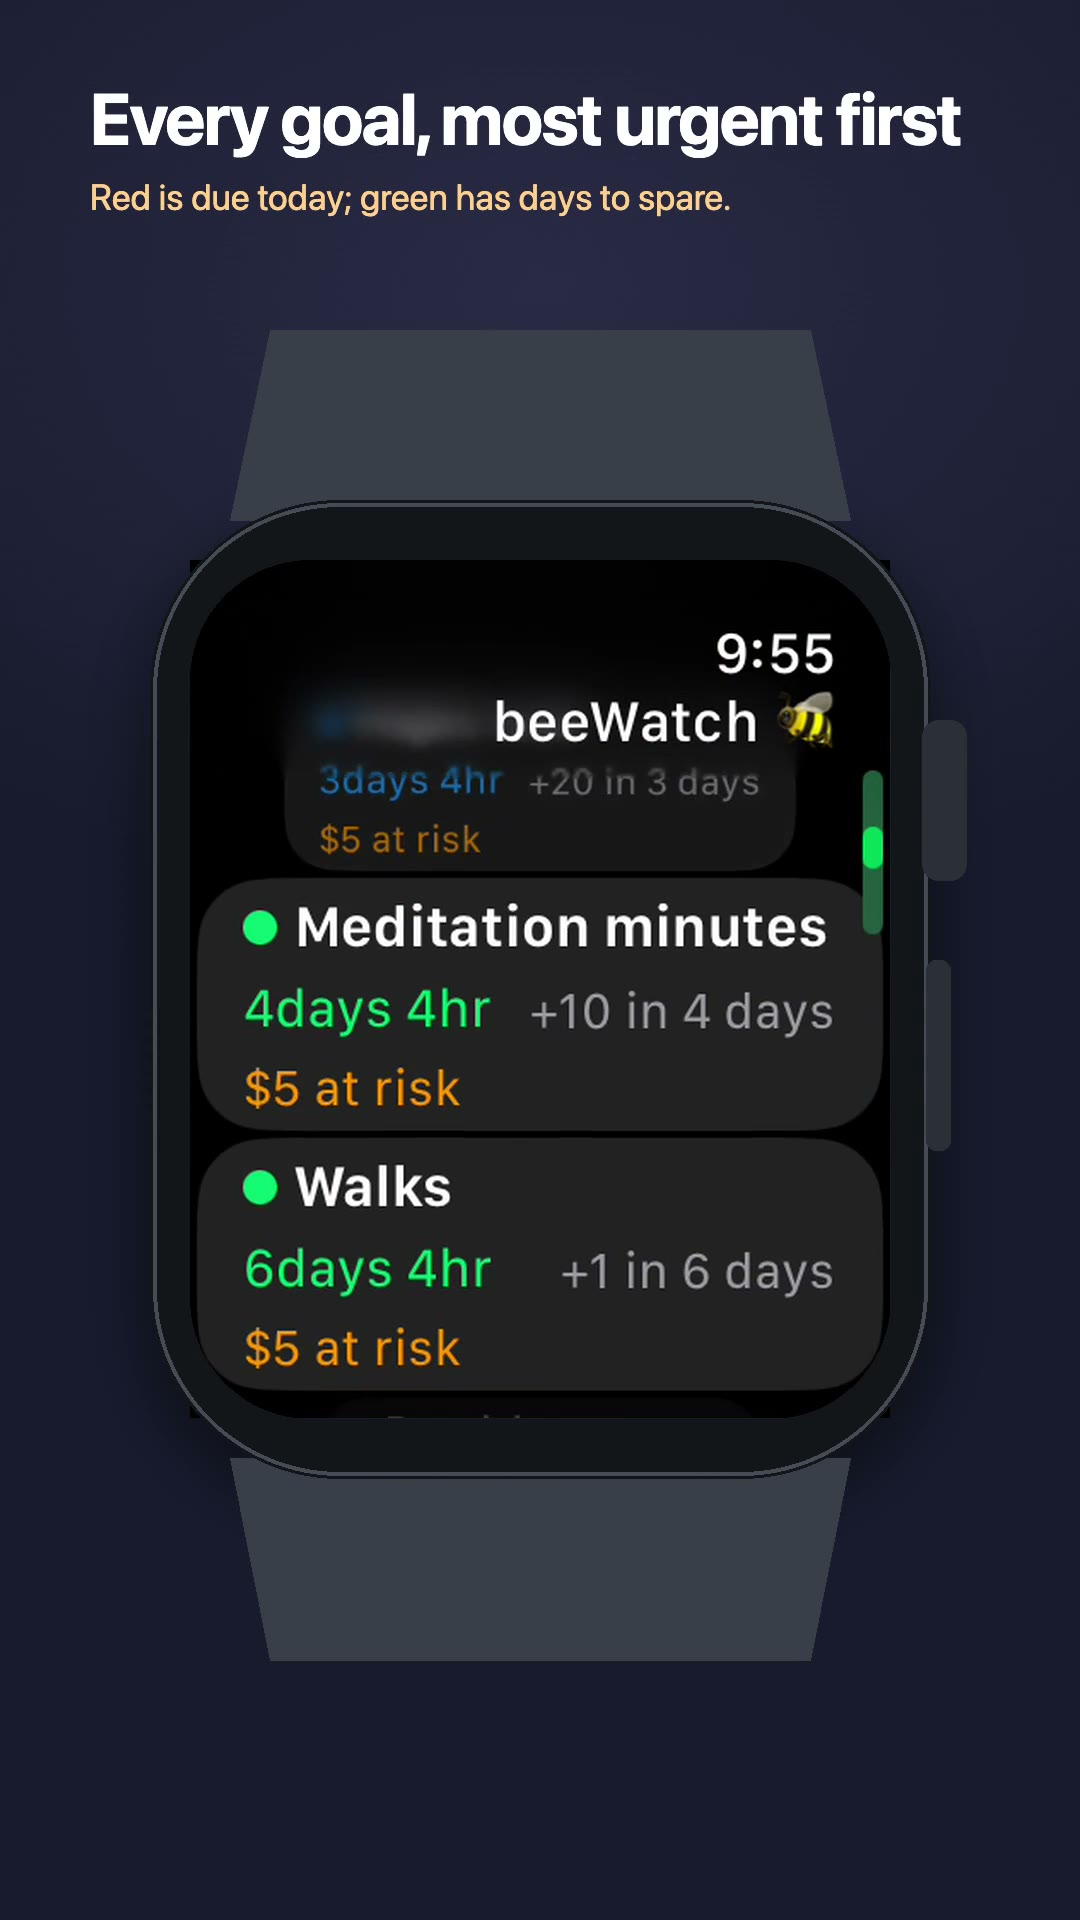
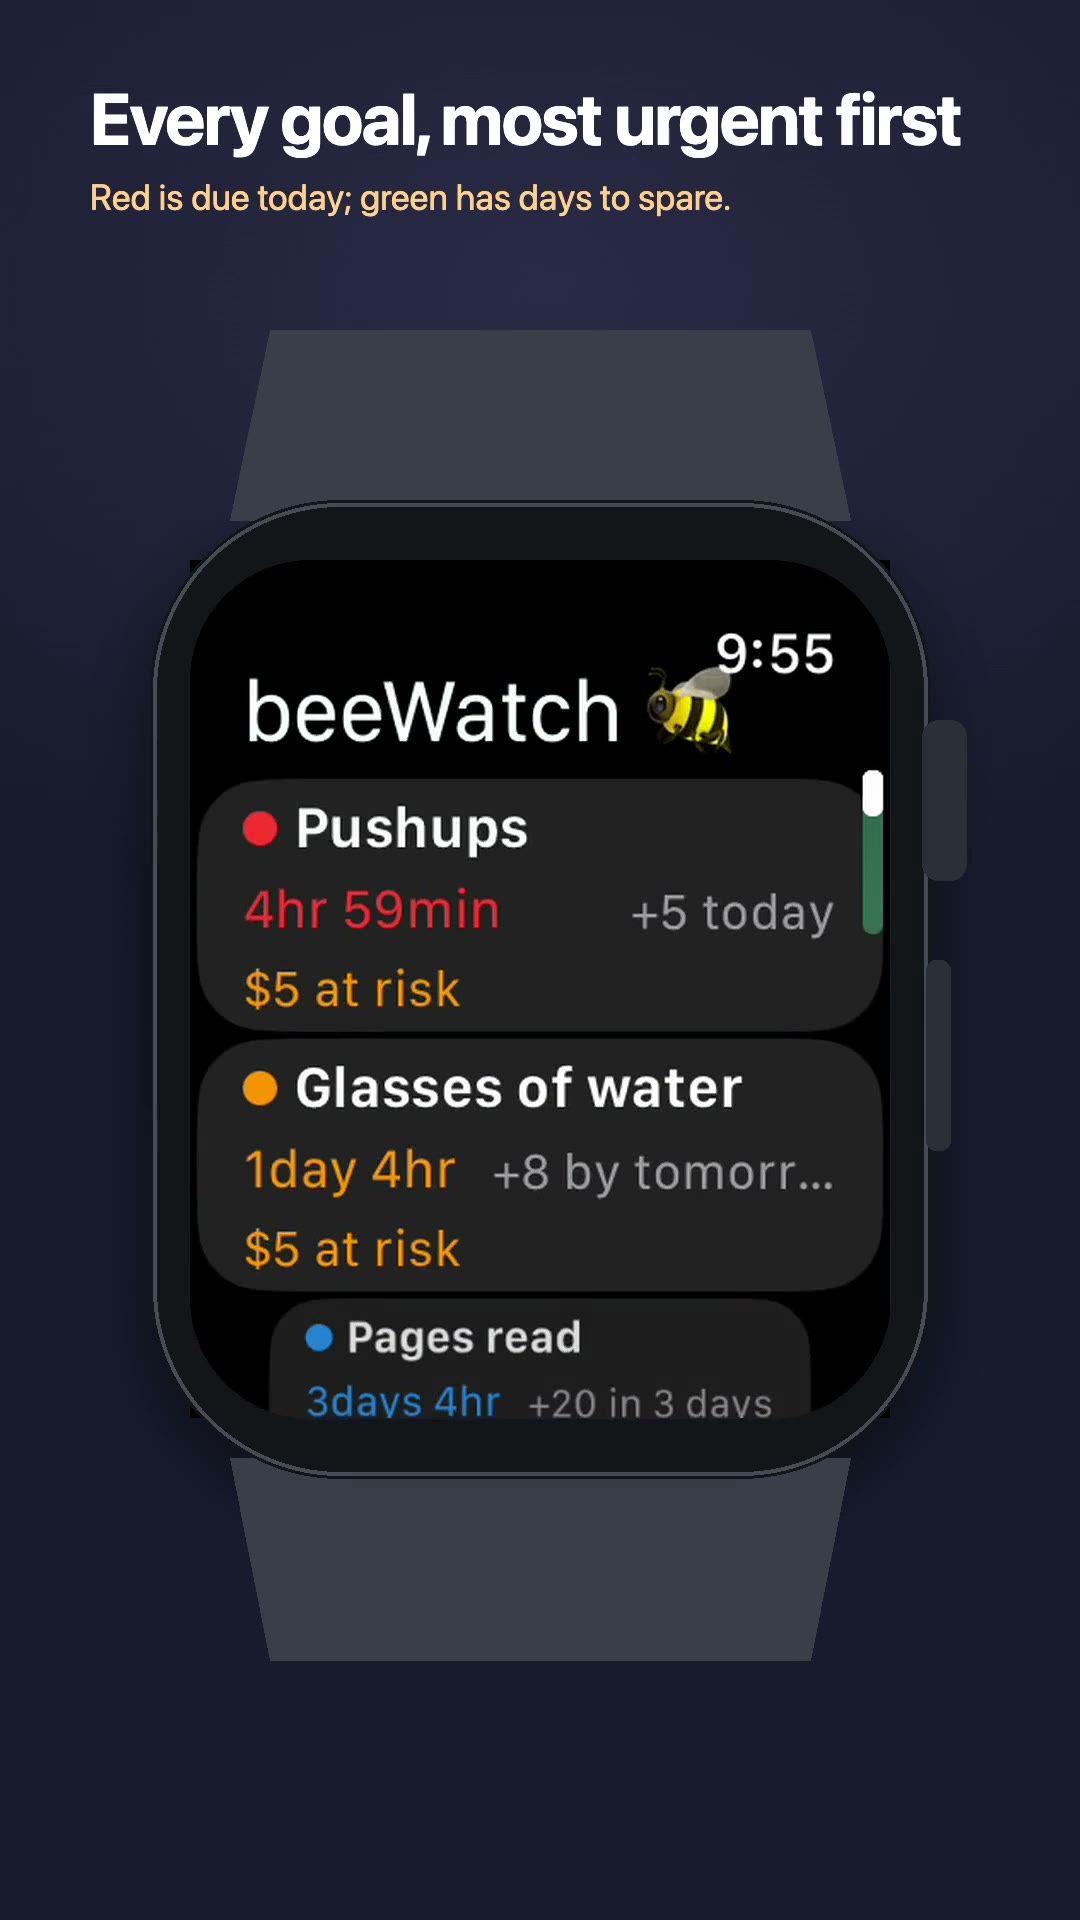
Put the watch tour on the site, and a tip jar in the footer
The narrated tour opens "See It In Action", above the illustrated
screens; nothing plays until pressed. Its poster is now the top of the
goal list, with the urgent goal in red.

GitHub Pages serves byte ranges itself; Cloudflare Pages does not, and
Safari will not play a video without them, so functions/media/[[path]].js
answers ranges there. deploy-site.sh runs wrangler from the repository
root, where Pages looks for functions/.

The footer gains a discreet "Tip jar" link to the studio's Ko-fi page,
and its links now wrap, which they had to on a phone once there were six.

Claude-Session: https://claude.ai/code/session_01VZrSTjpzwjHk3jhdgnpr33

Changed region(s): [[0.1833, 0.3438, 0.825, 0.75]]

diff --git a/docs/index.html b/docs/index.html
@@ -106,6 +106,12 @@
     <section id="screenshots" class="screenshots">
         <div class="container">
             <h2>See It In Action</h2>
+            <div class="tour">
+                <video controls playsinline preload="none" poster="media/beewatch-watch-tour-poster.jpg" width="1080" height="1920" aria-describedby="tour-about">
+                    <source src="media/beewatch-watch-tour.mp4" type="video/mp4">
+                </video>
+                <p id="tour-about">A 20-second narrated tour on sample goals: the list by urgency, logging a value in two taps, and the goal moving down once it is safe.</p>
+            </div>
             <div class="screenshot-grid">
                 <div class="screenshot-item">
                     <div class="watch-mockup small">
@@ -294,6 +300,7 @@
                     <a href="https://github.com/giovannicoppola/beeWatch">GitHub</a>
                     <a href="https://github.com/giovannicoppola/beeWatch/issues">Report Issue</a>
                     <a href="https://www.beeminder.com">Beeminder</a>
+                    <a href="https://ko-fi.com/cimentostudio" rel="noopener">Tip jar ♥</a>
                 </div>
                 <p class="footer-note">BeeWatch is an independent project and is not affiliated with Beeminder.</p>
             </div>

diff --git a/functions/media/[[path]].js b/functions/media/[[path]].js
@@ -1,0 +1,20 @@
+// Pages serves static files whole and ignores Range, but Safari plays a video only if it can
+// fetch it in parts, and a chapter jump needs that too. So files under /media/ come through
+// here: the whole file from the static assets, then the requested slice of it.
+export async function onRequestGet({ request, env }) {
+  const response = await env.ASSETS.fetch(request.url);
+  if (!response.ok) return response;
+  const headers = new Headers(response.headers);
+  headers.set('Accept-Ranges', 'bytes');
+  const range = /^bytes=(\d*)-(\d*)$/.exec(request.headers.get('Range') ?? '');
+  if (!range) return new Response(response.body, { status: response.status, headers });
+  const body = await response.arrayBuffer();
+  const size = body.byteLength;
+  const [, first, last] = range;
+  const start = first ? Number(first) : Math.max(0, size - Number(last || 0));
+  const end = first && last ? Math.min(Number(last), size - 1) : size - 1;
+  if (start > end || start >= size) return new Response(null, { status: 416, headers: { 'Content-Range': `bytes */${size}` } });
+  headers.set('Content-Range', `bytes ${start}-${end}/${size}`);
+  headers.delete('Content-Length');
+  return new Response(body.slice(start, end + 1), { status: 206, headers });
+}

diff --git a/docs/style.css b/docs/style.css
@@ -416,6 +416,12 @@ a:hover {
 }
 
 /* Screenshots Section */
+/* The narrated watch tour, above the illustrated screens; nothing plays until pressed. */
+.tour { display: grid; grid-template-columns: minmax(0, 260px) minmax(0, 320px); gap: 36px; align-items: center; justify-content: center; margin: 0 auto 48px; }
+.tour video { display: block; width: 100%; height: auto; aspect-ratio: 9 / 16; border-radius: 20px; background: var(--secondary); box-shadow: 0 16px 40px rgba(26, 26, 46, .25); }
+.tour p { color: var(--text-light); text-align: left; margin: 0; }
+@media (max-width: 640px) { .tour { grid-template-columns: 1fr; gap: 20px; } .tour video { max-width: 260px; margin: 0 auto; } .tour p { text-align: center; } }
+
 .screenshots {
     padding: 100px 0;
     background: var(--bg-alt);
@@ -582,7 +588,9 @@ a:hover {
 
 .footer-links {
     display: flex;
-    gap: 32px;
+    flex-wrap: wrap;
+    justify-content: center;
+    gap: 12px 32px;
 }
 
 .footer-links a {
